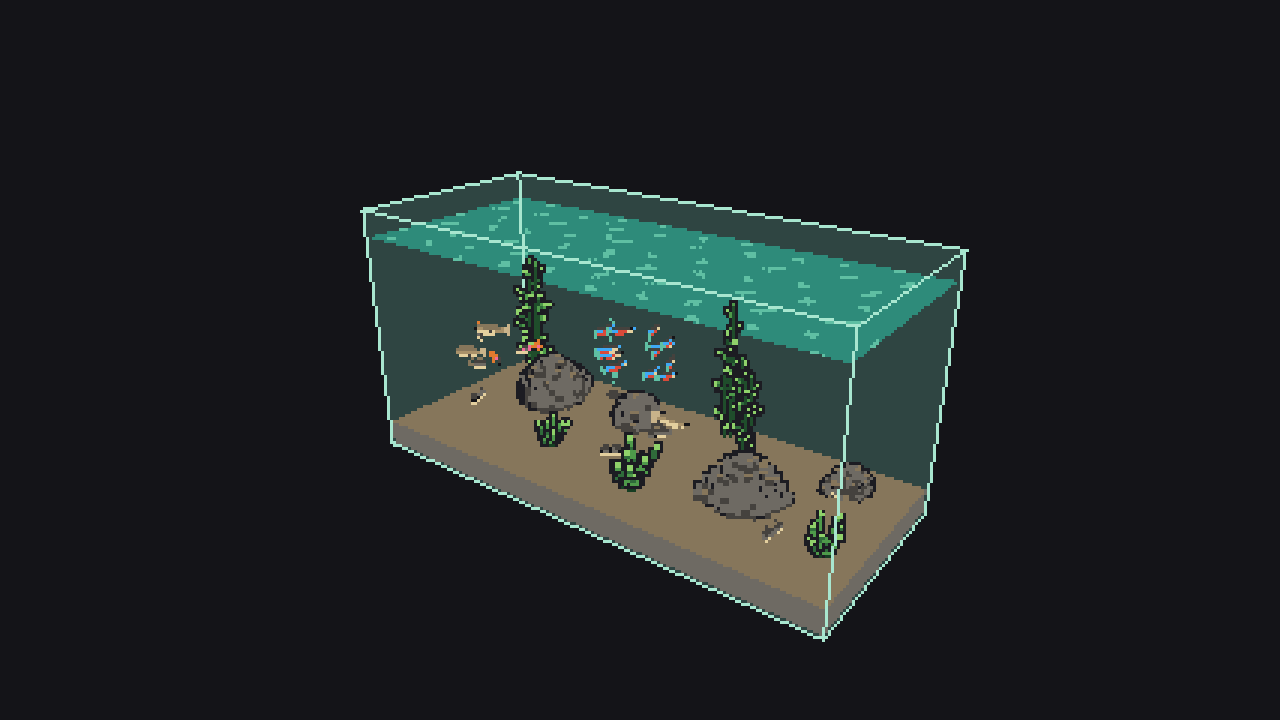
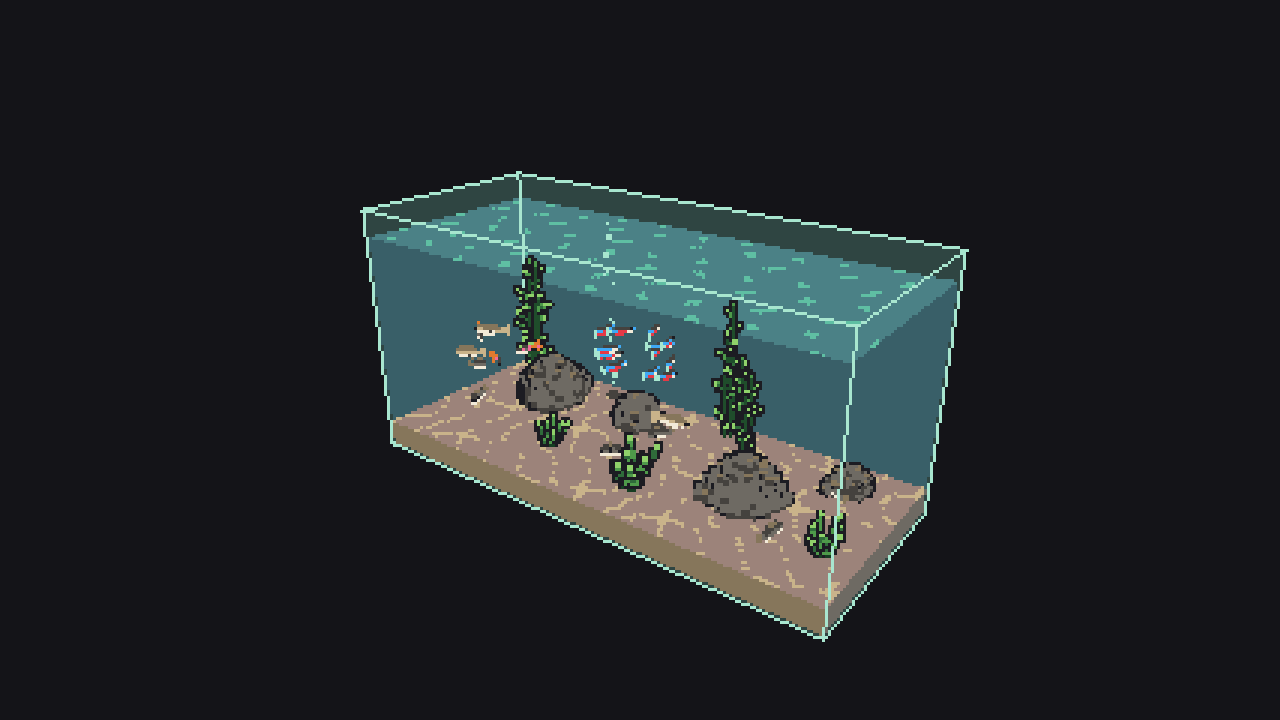
captures(c023): 5 angles + nuit/crépuscule

Changed region(s): [[0.2812, 0.275, 0.75, 0.8556]]

diff --git a/captures/latest/SOURCE.md b/captures/latest/SOURCE.md
@@ -1,4 +1,6 @@
-# Captures c022
-- Branche : cycle/c022-aide-memoire-commandes (PR #78), commit c7492e3
-- Graine : défaut du harnais ; temps : défaut du harnais
-- Résultat : 10 PNG identiques à captures/latest (cmp, octet près) ; interface/ (aide-mémoire) fournie par Dev
+# Captures c023 (QA)
+- Branche : cycle/c023-nuit-bleutee, PR #80, commit 82c70a3
+- Graine et temps : défaut du harnais
+- Midi (top, bottom, front, side, three-quarter, three-quarter-sans-filtre, trajectoires-top) : identiques à captures/latest (cycle 22), cmp octet près
+- Nuit et crépuscule (three-quarter-minuit, -crepuscule 18 h, -crepuscule-19h, -sans-filtre-minuit) : identiques aux captures de Dev (c023-dev)
+- Indicateur soleil/lune hors capture : voir interface/

diff --git a/captures/c023/SOURCE.md b/captures/c023/SOURCE.md
@@ -1,0 +1,6 @@
+# Captures c023 (QA)
+- Branche : cycle/c023-nuit-bleutee, PR #80, commit 82c70a3
+- Graine et temps : défaut du harnais
+- Midi (top, bottom, front, side, three-quarter, three-quarter-sans-filtre, trajectoires-top) : identiques à captures/latest (cycle 22), cmp octet près
+- Nuit et crépuscule (three-quarter-minuit, -crepuscule 18 h, -crepuscule-19h, -sans-filtre-minuit) : identiques aux captures de Dev (c023-dev)
+- Indicateur soleil/lune hors capture : voir interface/
